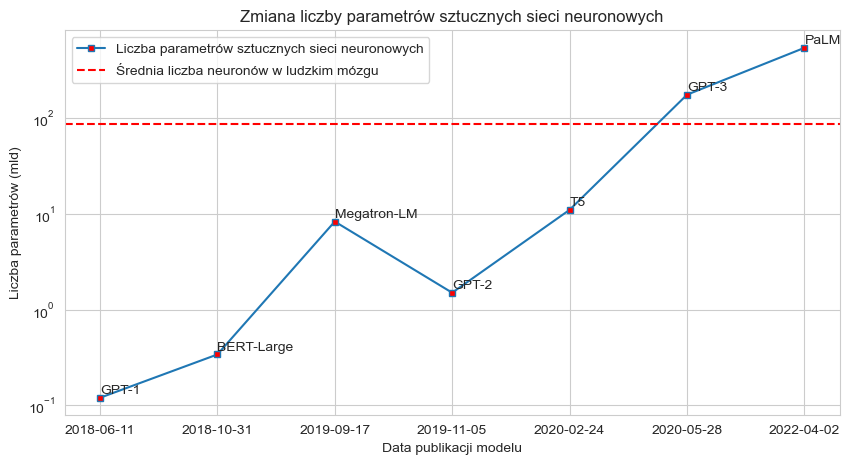
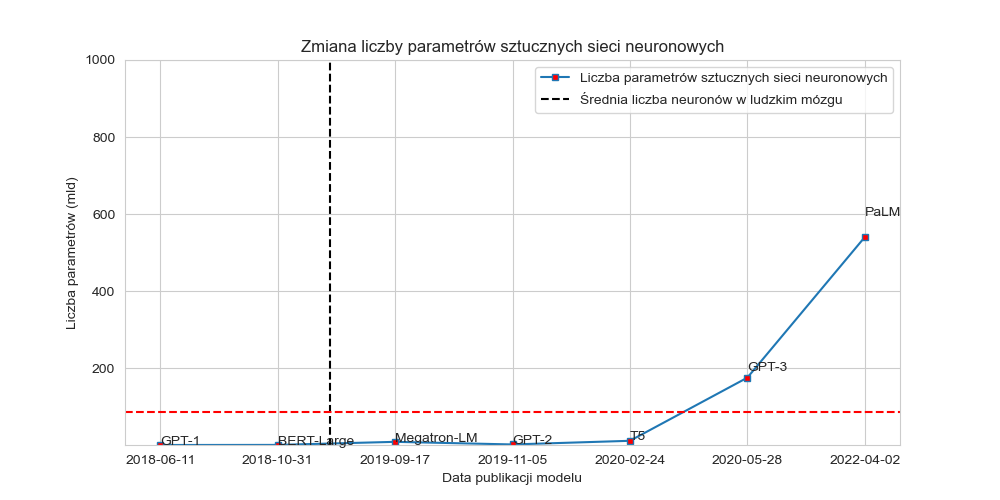
add n_params files

diff --git a/other/n_params.py b/other/n_params.py
@@ -1,12 +1,13 @@
 import pandas as pd
 import matplotlib.pyplot as plt
 import matplotlib.dates as mdates
+import numpy as np
 
 import seaborn as sns
 
 sns.set_style("whitegrid")
 
-
+# set data
 data = [
     ("2018-06-11", "GPT-1", 0.12), 
     ("2018-10-31", "BERT-Large", 0.34), 
@@ -25,8 +26,45 @@ model = [d[1] for d in data]
 params = [d[2] for d in data]
 
 df = pd.DataFrame({"model": model, "params": params}, index=date)
+df["days"] = pd.to_datetime(df.reset_index()["index"]).diff().fillna(pd.Timedelta("0D")).dt.days.values.cumsum()
 
 
+# fit linear model
+from sklearn.linear_model import LinearRegression
+from sklearn.preprocessing import PolynomialFeatures
+from sklearn.pipeline import make_pipeline
+
+X = df["days"].values.reshape(-1, 1)
+y = df["params"].values.reshape(-1, 1) * 1e9
+
+model = make_pipeline(PolynomialFeatures(degree=1), LinearRegression())
+model.fit(X, y)
+
+print(model.named_steps["linearregression"].coef_)
+print(model.named_steps["linearregression"].intercept_)
+
+# get doubling time from model
+doubling_time = np.log(2) / model.named_steps["linearregression"].coef_[0][0]
+
+
+# from sklearn.linear_model import LinearRegression
+# from sklearn.preprocessing import PolynomialFeatures
+# from sklearn.pipeline import make_pipeline
+
+# X = df["days"].values.reshape(-1, 1)
+# y = df["params"].values.reshape(-1, 1)
+
+# model = make_pipeline(PolynomialFeatures(degree=1), LinearRegression())
+# model.fit(X, y)
+
+# print(model.named_steps["linearregression"].coef_)
+
+# # get doubling time from model
+# doubling_time = np.log(2) / model.named_steps["linearregression"].coef_[0][0]
+
+# print(f"Doubling timep: {doubling_time:.2f} days")
+
+# plot
 plt.figure(figsize=(10, 5))
 plt.title("Zmiana liczby parametrów sztucznych sieci neuronowych")
 plt.ylabel("Liczba parametrów (mld)")
@@ -39,7 +77,10 @@ for i in data:
     plt.annotate(i[1], xy=(i[0], i[2]), xytext=(i[0], i[2]+0.1*i[2]))
 
 
-plt.yscale("log")
+# plot log-linear model
+plt.plot(df.index, model.predict(X), linestyle="--", color="black")
+
+# plt.yscale("log")
 # plt.xlim(df.index[0], df.index[-1])
 plt.ylim(0.1, 1000)
 plt.axhline(y=brain[1], color="r", linestyle="--")
